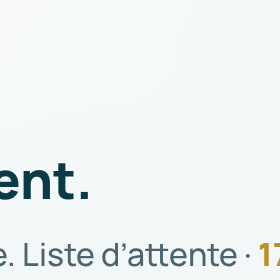
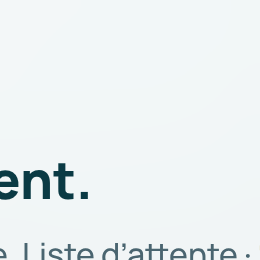
docs(com): fond texte N2+ plus foncé + comparaison mobile

Changed region(s): [[0.0, 0.8615, 0.9538, 1.0], [0.0, 0.5846, 0.3385, 0.7692], [0.9231, 0.8615, 1.0, 0.9538]]

diff --git a/docs/communication/lancement-2026/export-visuels-pack-acte-a-v4-light.html b/docs/communication/lancement-2026/export-visuels-pack-acte-a-v4-light.html
@@ -24,8 +24,8 @@
       margin: 0 auto 16px;
       position: relative;
       overflow: hidden;
-      /* Niveau 2 · dégradé validé */
-      background: linear-gradient(145deg, #a8dce8 0%, #5eb3c4 40%, #3a9aad 75%, #0f7a8e 100%);
+      /* Niveau 2+ · même logique, plus de teal visible (mobile / carte blanche) */
+      background: linear-gradient(150deg, #6eb8c9 0%, #2d96a8 32%, #0f7a8e 58%, #0a3a44 100%);
       color: var(--deep);
     }
     .c.reel { height: 1920px; }
@@ -34,15 +34,15 @@
       position: absolute;
       inset: -20%;
       background: url('assets/capture-accueil-2.jpg') center 20% / cover no-repeat;
-      filter: blur(52px) saturate(1.25) brightness(1.05) hue-rotate(-8deg);
-      opacity: 0.44;
+      filter: blur(56px) saturate(1.05) brightness(0.82) hue-rotate(-6deg);
+      opacity: 0.32;
     }
     .atmo-teal {
       position: absolute;
       inset: 0;
-      background: radial-gradient(ellipse 95% 75% at 75% 15%, rgba(15,122,142,0.28), transparent 52%),
-        radial-gradient(ellipse 85% 65% at 8% 85%, rgba(21,150,173,0.22), transparent 48%),
-        linear-gradient(180deg, rgba(15,122,142,0.08) 0%, rgba(15,122,142,0.18) 100%);
+      background: radial-gradient(ellipse 100% 85% at 70% 20%, rgba(15,122,142,0.42), transparent 50%),
+        radial-gradient(ellipse 90% 70% at 10% 85%, rgba(10,58,68,0.35), transparent 45%),
+        linear-gradient(180deg, rgba(15,122,142,0.12) 0%, rgba(10,58,68,0.45) 100%);
       pointer-events: none;
       z-index: 1;
     }
@@ -65,9 +65,9 @@
       border-radius: 50%;
       filter: blur(2px);
     }
-    .blob.a { width: 520px; height: 520px; background: rgba(15,122,142,0.26); top: -110px; right: -130px; }
-    .blob.b { width: 360px; height: 360px; background: rgba(21,150,173,0.2); bottom: 160px; left: -90px; }
-    .blob.c { width: 240px; height: 240px; background: rgba(15,122,142,0.18); top: 42%; left: 52%; }
+    .blob.a { width: 540px; height: 540px; background: rgba(10,58,68,0.2); top: -110px; right: -130px; }
+    .blob.b { width: 380px; height: 380px; background: rgba(15,122,142,0.32); bottom: 150px; left: -95px; }
+    .blob.c { width: 260px; height: 260px; background: rgba(15,122,142,0.28); top: 40%; left: 50%; }
     .inner {
       position: relative;
       z-index: 2;
